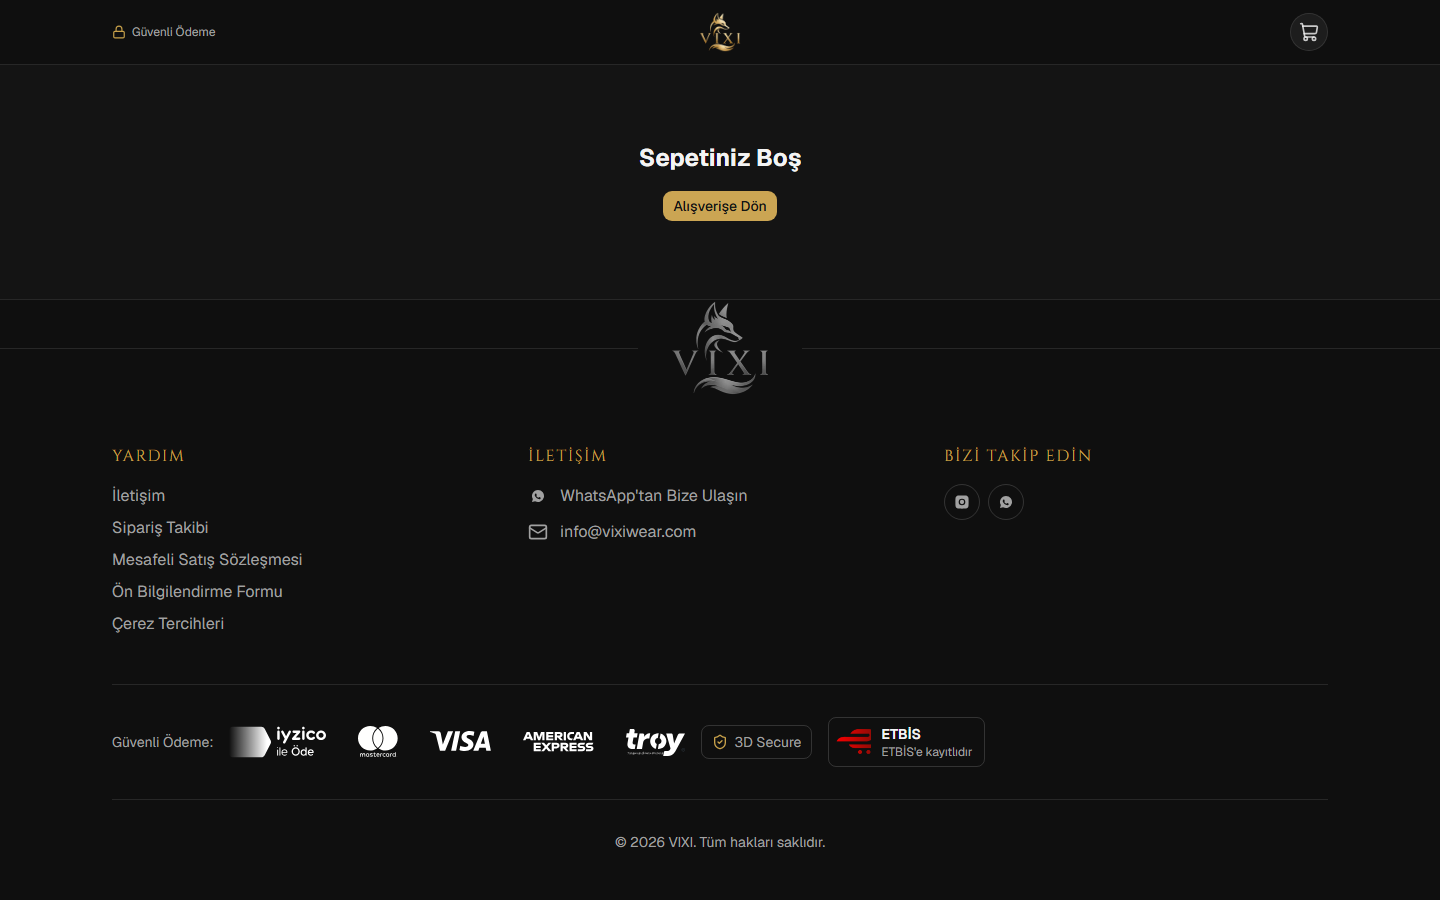
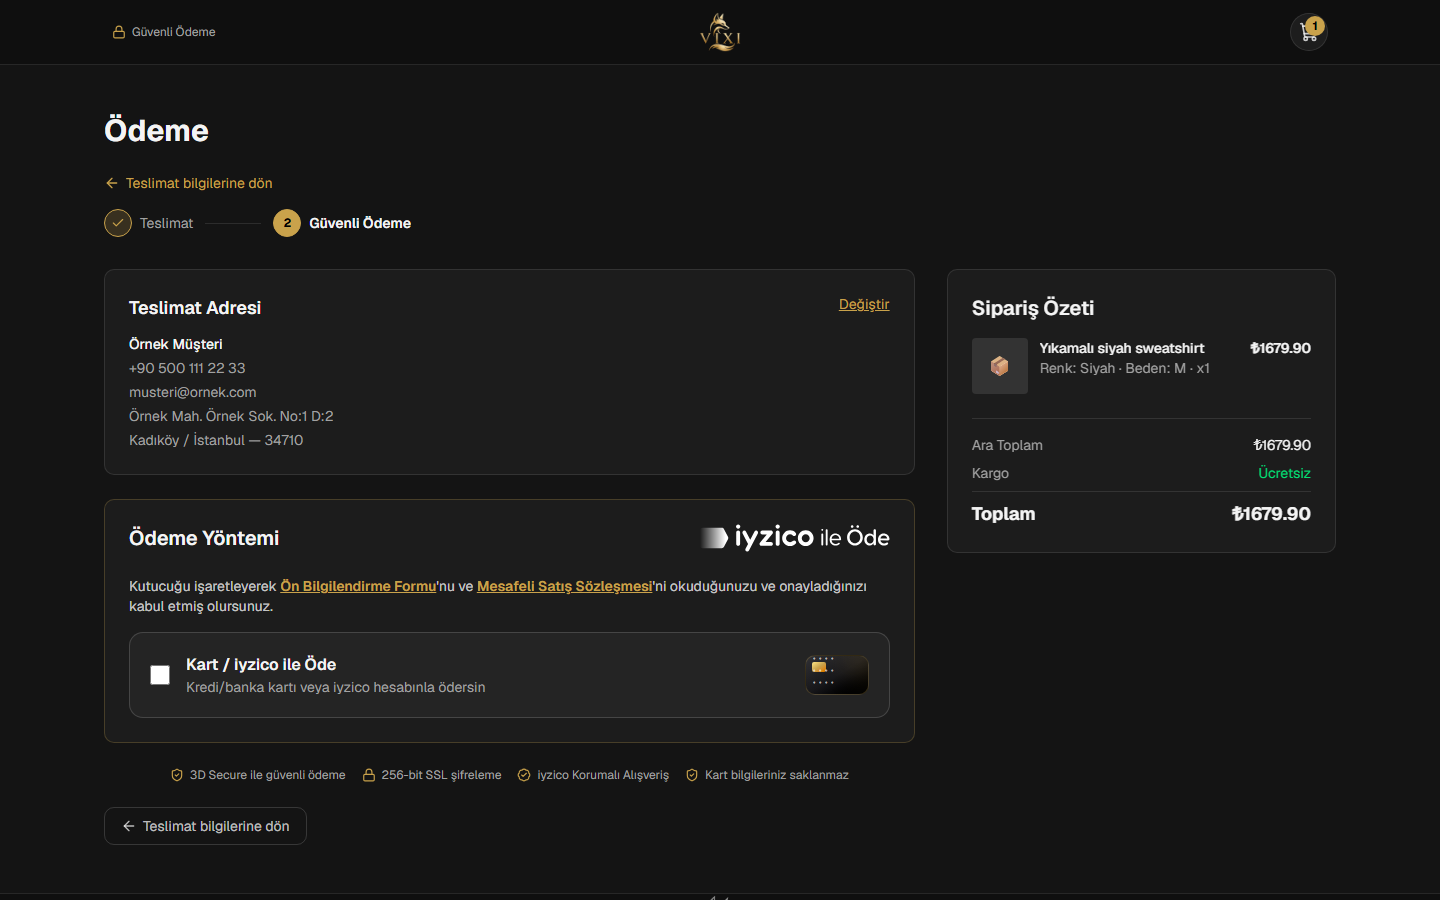
Add checkout/categories/account/settings screenshots

diff --git a/README.md b/README.md
@@ -28,15 +28,16 @@ End-to-end custom e-commerce platform built for **[vixiwear.com](https://vixiwea
 
 | | |
 |---|---|
-| ![Catalog](screenshots/desktop-products.png) | ![Product](screenshots/desktop-product.png) |
-| ![Mobile home](screenshots/mobile-home.png) | ![Mobile product](screenshots/mobile-product.png) |
+| ![Category showcase](screenshots/desktop-categories.png) | ![Catalog](screenshots/desktop-products.png) |
+| ![Product](screenshots/desktop-product.png) | ![Checkout](screenshots/desktop-checkout.png) |
+| ![Mobile home](screenshots/mobile-home.png) | ![Account](screenshots/hesabim.png) |
 
 **Admin panel** (customer PII blurred):
 
 | | |
 |---|---|
 | ![Dashboard](screenshots/admin-dashboard.png) | ![Orders](screenshots/admin-orders.png) |
-| ![Products](screenshots/admin-products.png) | ![Members](screenshots/admin-members.png) |
+| ![Products](screenshots/admin-products.png) | ![Settings](screenshots/admin-ayarlar.png) |
 
 ## Architecture highlights
 
